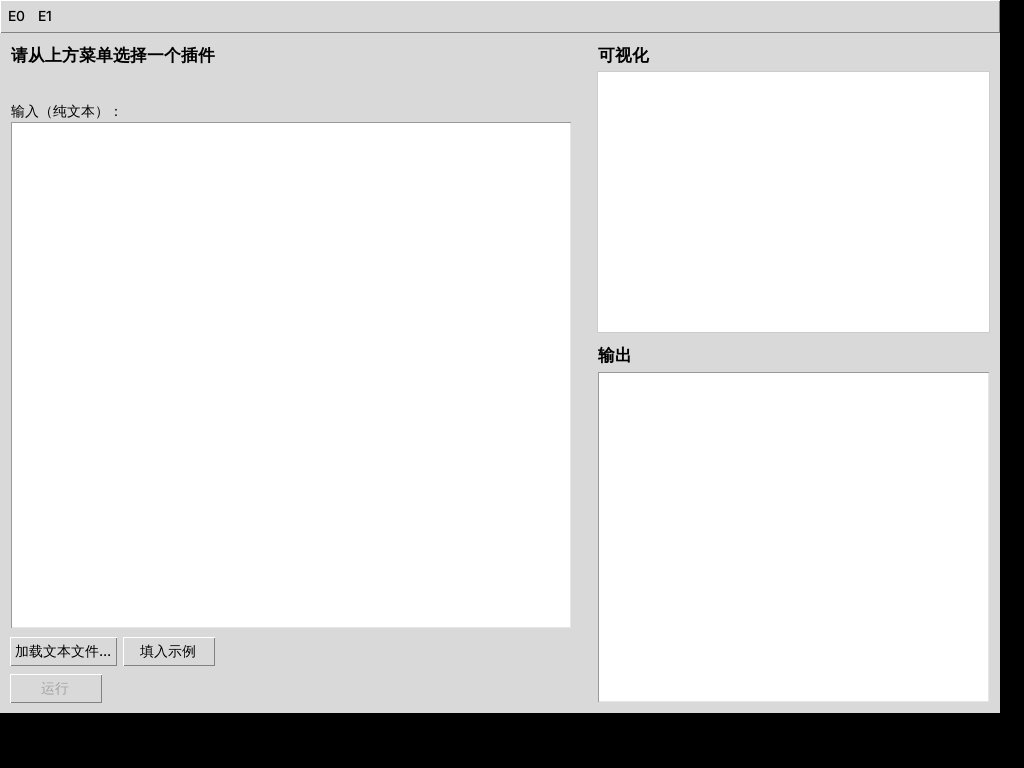
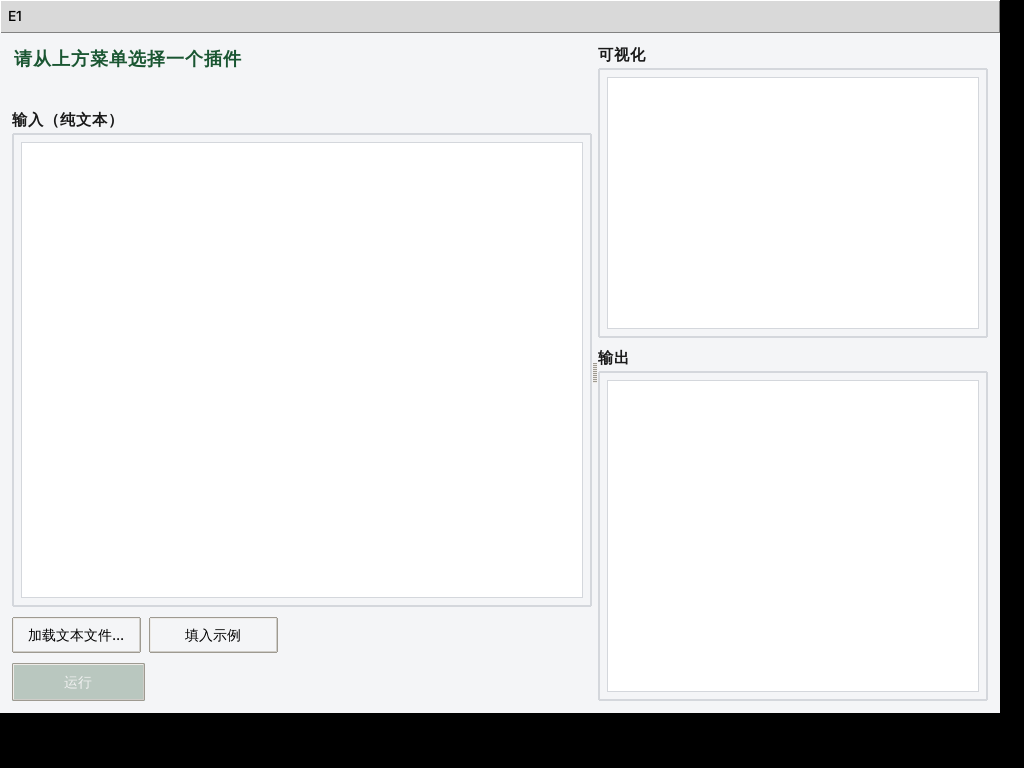
课程方案改为定题、一实验一插件；界面美化；去掉汉诺塔示例 (#5)
* 用空白模板 + 顺序表插入示例替换组件演示插件

拆分原来的 example_demo（一次性演示所有可视化组件）为两部分：
template/ 是不会被平台加载的空白骨架，供学生复制；
example_insert 是顺序表插入的完整实现，带可视化，供学生参考代码该怎么写。
同步更新三份 README、学生手册和图文讲解页，去掉过于"AI 风格"的装饰样式。

Claude-Session: https://claude.ai/code/session_01H1kom7vkjdaCTMFo3jyyjG

* 简化平台架构：C 版去掉 dlopen/.so，Python 版扁平化目录

C 版插件改为编译时静态注册（__attribute__((constructor))），和核心代码
一起编译成一个可执行文件，不再有 dlopen/dlsym/ABI 版本这些概念，Windows
装 MinGW-w64 即可编译运行，不再需要 WSL。Makefile 从"编译核心 + 逐个插件
编译成 .so"简化成一条 glob 所有源文件的编译命令。

Python 版去掉 core/、ui/ 子目录，loader.py/registry.py 的逻辑合并进
main.py，plugin_base.py/visual.py/app.py 直接放在平台根目录，减少学生
需要理解的目录层级。

同步更新两份 README、学生手册、VSCode 配置指南和图文讲解页。

Claude-Session: https://claude.ai/code/session_01H1kom7vkjdaCTMFo3jyyjG

* 重新设计五次课实验方案，改用更基础的算法主题

去掉原来 KMP+矩阵这次偏难、跟遥感场景强绑定的实验，换成更贴近数据结构
核心内容的五个主题：线性表、栈和队列、树、图、查找与排序，每次课后
任务按 2~3 小时设计，难度点分散成多个小任务（比如树那次拆成遍历和
BST 插入/查找两部分，BST 删除作为选做）。

示例插件的分类编号相应调整：汉诺塔示例作为不计入正式实验的入门演示
（E0），顺序表插入示例对应实验一（E1）。同步更新截图、两份 README、
VSCode 配置指南和图文讲解页里的实验安排表。

Claude-Session: https://claude.ai/code/session_01H1kom7vkjdaCTMFo3jyyjG

* 美化 Python 版界面：ttk 主题 + 分组边框，不再是原生灰色控件

用 ttk 的 clam 主题统一配色（墨绿色强调色，跟文档保持一致），输入/可视化/
输出三块都用 Labelframe 加边框分组，运行按钮用强调色突出主操作，整体
排版更规整。截图同步更新。

Claude-Session: https://claude.ai/code/session_01H1kom7vkjdaCTMFo3jyyjG

* 课程方案改为定题、一实验一插件；入门合并进实验一，去掉汉诺塔示例

去掉所有选做/二选一内容，每次实验的 2~3 个算法都固定下来，统一封装进
同一个插件（一个新菜单项），用输入第一行的算法名区分分支，约定写进
学生手册。环境搭建不再单独占一次课，并入实验一，课后任务就是照着
顺序表插入示例的结构再实现一遍插入和删除，降低第一堂课难度。

汉诺塔递归示例整个移除（Python/C 两版），平台现在只保留顺序表插入
[…]

Changed region(s): [[0.0, 0.0312, 1.0, 0.9375]]

diff --git a/docs/plugin_platform_guide.html b/docs/plugin_platform_guide.html
@@ -293,15 +293,15 @@ class BinarySearchPlugin(Plugin):
 <section id="timeline">
   <div class="wrap">
     <h2>五、五次实验的安排</h2>
-    <p>每次实验对应平台里的一个新分类，课后任务按 2~3 小时设计。正式实验前有一次不计入五次的环境搭建+入门课（分类 <code>E0</code>）。</p>
+    <p>每次实验对应平台里新增的一个插件、一个新菜单项，课后任务固定 2~3 个算法，都写进同一个插件里（输入第一行写算法名区分分支），不设选做。第一次课把环境搭建并入实验一，内容刻意放轻。</p>
 
     <table>
-      <tr><th>实验</th><th>课堂讲什么</th><th>课后集成到平台的插件</th></tr>
-      <tr><td>E1 线性表</td><td>顺序表/链表复杂度对比</td><td>顺序表增删查 + 单链表增删查反转</td></tr>
+      <tr><th>实验</th><th>课堂讲什么</th><th>课后要写的算法（固定，不选做）</th></tr>
+      <tr><td>E1 环境搭建 + 顺序表</td><td>插件接口讲解，对照示例逐行走读</td><td>顺序表插入 + 顺序表删除</td></tr>
       <tr><td>E2 栈和队列</td><td>典型应用场景、现场写括号匹配</td><td>栈（括号匹配）+ 循环队列</td></tr>
       <tr><td>E3 树</td><td>递归定义、三种遍历的写法规律</td><td>二叉树四种遍历 + 二叉查找树插入/查找</td></tr>
       <tr><td>E4 图</td><td>邻接矩阵 vs 邻接表、现场写 DFS</td><td>图的邻接表存储 + DFS/BFS</td></tr>
-      <tr><td>E5 查找与排序</td><td>查找/排序谱系，对比不同排序的比较次数</td><td>顺序/二分查找 + 简单排序 + 快排或归并</td></tr>
+      <tr><td>E5 查找与排序</td><td>查找/排序谱系，对比不同排序的比较次数</td><td>顺序/二分查找 + 选择排序 + 快速排序</td></tr>
     </table>
   </div>
 </section>

diff --git a/platform-python/app.py b/platform-python/app.py
@@ -12,17 +12,50 @@ from tkinter import ttk, filedialog, messagebox
 
 from visual import Visualizer
 
+# 统一配色，照搬课程文档用的墨绿色系，不需要改这几个值。
+BG = "#f4f5f7"
+ACCENT = "#1a5632"
+ACCENT_ACTIVE = "#154827"
+BORDER = "#d4d7dc"
+MUTED = "#5a6066"
+
 
 class PlatformApp(tk.Tk):
     def __init__(self, plugins):
         super().__init__()
         self.plugins = plugins
         self.title("数据结构实验插件平台（Python）")
-        self.geometry("980x680")
+        self.geometry("1020x700")
+        self.minsize(820, 560)
         self.current_plugin = None   # 当前选中的插件对象
 
+        self._setup_style()
         self._build_menu()
         self._build_layout()
+
+    def _setup_style(self):
+        self.configure(bg=BG)
+        style = ttk.Style(self)
+        # clam 主题支持自定义颜色，换个主题能让控件看起来不那么“原始系统风格”。
+        style.theme_use("clam")
+
+        style.configure(".", background=BG)
+        style.configure("TFrame", background=BG)
+        style.configure("TLabel", background=BG, foreground="#1a1a1a")
+        style.configure("Muted.TLabel", background=BG, foreground=MUTED)
+        style.configure("Header.TLabel", background=BG, foreground=ACCENT, font=("", 13, "bold"))
+        style.configure("Section.TLabel", background=BG, foreground="#1a1a1a", font=("", 11, "bold"))
+
+        style.configure("TLabelframe", background=BG, bordercolor=BORDER, relief="solid", borderwidth=1)
+        style.configure("TLabelframe.Label", background=BG, foreground="#1a1a1a", font=("", 11, "bold"))
+
+        style.configure("TButton", padding=(12, 6))
+        style.configure("Accent.TButton", padding=(14, 7), background=ACCENT, foreground="white")
+        style.map(
+            "Accent.TButton",
+            background=[("disabled", "#b9c7bf"), ("active", ACCENT_ACTIVE)],
+            foreground=[("disabled", "#f0f0f0")],
+        )
 
     def _build_menu(self):
         # 菜单栏：每个 category（比如 "E1"）是一个菜单，里面是这次课的所有插件
@@ -40,43 +73,57 @@ class PlatformApp(tk.Tk):
         self.config(menu=menubar)
 
     def _build_layout(self):
-        paned = ttk.PanedWindow(self, orient=tk.HORIZONTAL)
+        outer = ttk.Frame(self, padding=12)
+        outer.pack(fill=tk.BOTH, expand=True)
+
+        paned = ttk.PanedWindow(outer, orient=tk.HORIZONTAL)
         paned.pack(fill=tk.BOTH, expand=True)
 
         # ---------- 左侧：插件说明 + 输入框 ----------
-        left = ttk.Frame(paned, width=280)
+        left = ttk.Frame(paned, width=300)
         paned.add(left, weight=1)
 
-        self.title_label = ttk.Label(left, text="请从上方菜单选择一个插件", font=("", 12, "bold"), wraplength=260)
-        self.title_label.pack(anchor="w", padx=10, pady=(10, 4))
+        self.title_label = ttk.Label(left, text="请从上方菜单选择一个插件", style="Header.TLabel", wraplength=280)
+        self.title_label.pack(anchor="w", pady=(0, 4))
 
-        self.desc_label = ttk.Label(left, text="", foreground="#666", wraplength=260)
-        self.desc_label.pack(anchor="w", padx=10, pady=(0, 10))
+        self.desc_label = ttk.Label(left, text="", style="Muted.TLabel", wraplength=280, justify=tk.LEFT)
+        self.desc_label.pack(anchor="w", pady=(0, 12))
 
-        ttk.Label(left, text="输入（纯文本）：").pack(anchor="w", padx=10)
-        self.input_box = tk.Text(left, height=10)
-        self.input_box.pack(fill=tk.BOTH, expand=True, padx=10, pady=(0, 8))
+        input_frame = ttk.Labelframe(left, text="输入（纯文本）", padding=8)
+        input_frame.pack(fill=tk.BOTH, expand=True, pady=(0, 10))
+        self.input_box = tk.Text(
+            input_frame, height=10, wrap="word", relief="flat",
+            highlightthickness=1, highlightbackground=BORDER, highlightcolor=ACCENT,
+            padx=6, pady=6,
+        )
+        self.input_box.pack(fill=tk.BOTH, expand=True)
 
         btn_row = ttk.Frame(left)
-        btn_row.pack(fill=tk.X, padx=10, pady=(0, 8))
+        btn_row.pack(fill=tk.X, pady=(0, 10))
         ttk.Button(btn_row, text="加载文本文件...", command=self._on_load_file).pack(side=tk.LEFT)
-        ttk.Button(btn_row, text="填入示例", command=self._on_fill_example).pack(side=tk.LEFT, padx=6)
+        ttk.Button(btn_row, text="填入示例", command=self._on_fill_example).pack(side=tk.LEFT, padx=(8, 0))
 
-        self.run_btn = ttk.Button(left, text="运行", command=self._on_run, state=tk.DISABLED)
-        self.run_btn.pack(anchor="w", padx=10, pady=(0, 10))
+        self.run_btn = ttk.Button(left, text="运行", style="Accent.TButton", command=self._on_run, state=tk.DISABLED)
+        self.run_btn.pack(anchor="w")
 
-        # ---------- 中间：画布（上）+ 输出框（下） ----------
+        # ---------- 右侧：画布（上）+ 输出框（下） ----------
         right = ttk.Frame(paned)
         paned.add(right, weight=3)
 
-        ttk.Label(right, text="可视化", font=("", 12, "bold")).pack(anchor="w", padx=10, pady=(10, 4))
-        self.canvas = tk.Canvas(right, height=260, bg="white", highlightthickness=1, highlightbackground="#ccc")
-        self.canvas.pack(fill=tk.X, padx=10, pady=(0, 10))
+        vis_frame = ttk.Labelframe(right, text="可视化", padding=8)
+        vis_frame.pack(fill=tk.X, pady=(0, 10))
+        self.canvas = tk.Canvas(vis_frame, height=250, bg="white", highlightthickness=1, highlightbackground=BORDER)
+        self.canvas.pack(fill=tk.X)
         self.vis = Visualizer(self.canvas)
 
-        ttk.Label(right, text="输出", font=("", 12, "bold")).pack(anchor="w", padx=10, pady=(0, 4))
-        self.output = tk.Text(right, wrap="word")
-        self.output.pack(fill=tk.BOTH, expand=True, padx=10, pady=(0, 10))
+        output_frame = ttk.Labelframe(right, text="输出", padding=8)
+        output_frame.pack(fill=tk.BOTH, expand=True)
+        self.output = tk.Text(
+            output_frame, wrap="word", relief="flat",
+            highlightthickness=1, highlightbackground=BORDER, highlightcolor=ACCENT,
+            padx=6, pady=6,
+        )
+        self.output.pack(fill=tk.BOTH, expand=True)
 
     def _select_plugin(self, plugin):
         # 从菜单里点了某个插件之后，刷新左侧面板

diff --git a/platform-python/plugin_base.py b/platform-python/plugin_base.py
@@ -18,7 +18,7 @@ class Plugin:
     """所有插件的基类。写自己的插件时，继承它并重写 run() 即可。"""
 
     name = "未命名插件"     # 显示在菜单里的名字，同一平台内不要和别人重名
-    category = "E0"         # 实验编号，例如 "E1"、"E2"，用于放进同一个菜单栏
+    category = "E1"         # 实验编号，例如 "E1"、"E2"，用于放进同一个菜单栏
     description = ""        # 一句话说明输入格式，会显示在左侧面板里
 
     def example_input(self):

diff --git a/docs/course_design.md b/docs/course_design.md
@@ -2,40 +2,29 @@
 
 ## 设计思路
 
-1. 每次实验都产出一个插件，装进平台里。五次课上完，每个学生手上就有一套自己写的算法合集，可以直接打开平台跑给别人看。
-2. 课堂时间不用来讲语法，讲两件事：这个算法的关键点在哪、容易在哪里出错，以及怎么把算法包装成插件接口。具体写法学生自己看操作手册。
-3. 课后任务给 2~3 小时，覆盖的是教材标准算法加插件封装，不额外要求性能优化，不要求复杂的异常处理。每次任务里如果某一个算法单独做太简单（比如顺序查找），就配上另一个算法凑够工作量，而不是让一个任务本身变难。
+1. 每次实验对应平台里新增的一个插件、一个新的菜单项。五次课上完，每个学生手上就有五个插件装在同一个平台里，可以直接打开跑给别人看。
+2. 每次实验的算法内容是固定的，不设选做、不设二选一，所有人做同一套题，方便统一验收。
+3. 每次实验安排 2~3 个算法，都封装进同一个插件里，用输入内容的第一行指定要跑哪个算法（约定写法见下）。课后任务按 2~3 小时设计，不要求性能优化，不要求复杂的异常处理。
 4. 每次任务都给明确的验收标准和测试用例，不让学生自己猜"做到什么程度算完成"。
 
----
-
-## 实验零：环境搭建 + 插件入门（不计入五次实验，占用第一次课前半段）
-
-目的是让学生在正式进入算法之前，先把平台跑起来、看懂插件长什么样。
-
-**课堂内容**
-- 讲 `Plugin` 接口（Python）/ `PluginInfo` 结构体（C）的字段含义，对照平台自带的汉诺塔示例插件（分类 `E0`）逐行走读。
-- 现场演示新增一个插件目录、改几行代码、重新运行就能在菜单里看到。
-- 分发平台代码，学生当场跑通汉诺塔示例，确认编译/运行环境没问题。
-
-**课后**：不布置任务，只要求保证平台在自己机器上能跑起来。下次课直接进入实验一。
+**统一的插件输入约定**：一个插件内部有多个算法时，输入的第一行写算法名（英文，比如 `insert`），其余行是这个算法需要的数据。插件 `run()` 里先按第一行判断走哪个分支，再解析剩下的内容。平台自带的 `example_insert` 示例目前只有一个算法，没有体现这个约定，写实验任务时照这个约定扩展即可。
 
 ---
 
-## 实验一：线性表（分类 `E1`）
+## 实验一：环境搭建 + 顺序表（分类 `E1`）
 
-顺序表和链表是后面所有实验的地基，栈、队列都是在它们基础上包一层接口。
+第一次课把环境搭建和第一次练习合在一起，内容刻意放得比较轻——顺序表插入已经作为示例给出，课后任务是照着同样的结构再写一个，难度不高。
 
 **课堂 90 分钟要讲的**
-- 顺序表和链表在插入、删除、按下标访问上的复杂度差别，什么场景该用哪个。
-- 现场写一个顺序表的按值查找，带着学生过一遍插件怎么设计输入格式（比如一行逗号分隔的整数）。
+- 讲 `Plugin` 接口（Python）/ `PluginInfo` 结构体（C）的字段含义，对照平台自带的顺序表插入示例（`example_insert`）逐行走读。
+- 现场演示新增一个插件目录、改几行代码、重新运行就能在菜单里看到。
+- 分发平台代码，学生当场跑通示例插件，确认编译/运行环境没问题。
 
-**课后任务（2~3 小时）**
-- 顺序表：实现插入、删除、按值查找，参考平台自带的 `example_insert` 示例（已经演示了插入，删除和查找是新增部分）。
-- 单链表：实现插入、删除、按值查找、反转。反转单独拿出来是因为它是最常考的链表题之一。
-- 两个数据结构可以封装成一个插件（输入里指定操作类型），也可以拆成两个插件，自己决定。
+**课后任务（2~3 小时，固定内容，两个算法）**
+- 顺序表插入：照着 `example_insert` 的结构自己重新实现一遍（不是复制示例代码，自己写一遍加深理解）。
+- 顺序表删除：在同一个插件里新增这个分支，删除指定下标的元素。
 
-**验收标准**：给定插入/删除/查找/反转各一组测试用例（含空表、单元素这两种边界），结果和教材标准算法一致，不崩溃。
+**验收标准**：新建一个插件目录，菜单里出现一个新的分类 `E1`（和示例的 `E1` 用不同的插件名区分）；插入、删除各给一组测试用例（含空表、删除越界这两种边界），结果和预期一致，不崩溃。
 
 ---
 
@@ -45,12 +34,11 @@
 - 栈和队列各自最典型的应用场景举一个例子。
 - 现场写一个括号匹配校验（用栈），比课后任务简单。
 
-**课后任务（2~3 小时）**
+**课后任务（2~3 小时，固定内容，两个算法）**
 - 栈：实现入栈/出栈/取栈顶，配一个应用——括号匹配校验（输入一串括号，判断是否合法）。
-- 队列：实现循环队列的入队/出队，注意判断队空和队满这两个边界。
-- 进阶选做（不要求）：用两个栈实现一个队列。
+- 循环队列：实现入队/出队，正确处理队空和队满这两个边界。
 
-**验收标准**：括号匹配给出至少一组合法、一组不合法的测试用例，结果正确；循环队列连续入队到满、再出队到空，不出现数组越界或死循环。
+**验收标准**：括号匹配给出一组合法、一组不合法的测试用例，结果正确；循环队列连续入队到满、再出队到空，不出现数组越界或死循环。
 
 ---
 
@@ -60,9 +48,9 @@
 - 树的递归定义，前序/中序/后序遍历的递归写法只有遍历顺序不一样，强调这一点能帮学生少背公式。
 - 现场手画一棵小树，全班一起写出三种遍历序列，再讲层序遍历（用队列）。
 
-**课后任务（2~3 小时）**
-- 二叉树的构建（约定一种文本输入格式，比如带占位符的层序序列）+ 前序、中序、后序、层序四种遍历。
-- 二叉查找树（BST）：实现插入和查找。删除是选做加分项——二叉查找树删除要处理三种情况（叶子节点、只有一个子节点、有两个子节点），对入门来说稍微绕一点，想挑战的同学再做。
+**课后任务（2~3 小时，固定内容，两个算法）**
+- 二叉树的构建（约定一种文本输入格式，比如带占位符的层序序列）+ 前序、中序、后序、层序四种遍历（这四种算一个整体功能）。
+- 二叉查找树（BST）：插入和查找。
 
 **验收标准**：给定标准测试树（层序输入格式见操作手册附录），四种遍历序列都正确；BST 插入后再查找刚插入的值能找到，查找不存在的值能正确返回"没找到"。
 
@@ -74,7 +62,7 @@
 - 邻接矩阵和邻接表两种存储方式的取舍（稀疏图用邻接表更省空间）。
 - 现场画一个 6 节点小图，带着全班写一遍 DFS。
 
-**课后任务（2~3 小时）**
+**课后任务（2~3 小时，固定内容，两个算法）**
 - 图的邻接表存储 + DFS 遍历，输入为边列表（比如每行一条边 `A,B`）。
 - BFS 遍历，复用同一套存储结构。
 
@@ -84,16 +72,16 @@
 
 ## 实验五：查找与排序（分类 `E5`）
 
-这是最后一次课，也是信息量最大的一次，但每个算法单独看都不难，拆开看工作量是合理的。
+这是最后一次课，信息量最大，但拆开看每个算法都不难。
 
 **课堂 90 分钟要讲的**
 - 顺序查找和二分查找的对比（二分查找要求数组有序）。
-- 排序算法谱系：冒泡/插入/选择这类"简单排序"思路差不多，快速排序和归并排序是重点。现场用平台跑一遍同一组数据的不同排序，直观看比较次数的差别。
+- 排序算法谱系：简单排序和高效排序的思路差别。现场用平台跑一遍同一组数据的不同排序，直观看比较次数的差别。
 
-**课后任务（2~3 小时）**
-- 查找：顺序查找 + 二分查找，一个插件里都实现，输出两者各自的比较次数方便对比。
-- 简单排序：冒泡、插入、选择三选一实现一个。
-- 进阶排序：快速排序和归并排序二选一实现一个。
+**课后任务（2~3 小时，固定内容，三个算法）**
+- 查找：顺序查找 + 二分查找，输出两者各自的比较次数方便对比。
+- 选择排序（简单排序的代表）。
+- 快速排序（高效排序的代表）。
 
 **验收标准**：查找和排序都用随机数组测试，结果和 Python `sorted()`/C 标准库 `qsort` 的输出做比较，一致即通过。
 
@@ -109,9 +97,3 @@
 | 手册/注释可读性 | 15% | 助教能不能在 5 分钟内看懂并跑起来 |
 
 插件集成规范性单独占 20% 是故意的：插件化的意义就是统一接口，如果某个插件的异常能让整个平台崩溃，说明接口没封装好，这件事要在分数上体现出来。
-
----
-
-## 后续可选：综合项目
-
-五次实验结束后，如果课时还有富余，可以加一个开放性的综合项目作为选做/加分项——要求学生任选一个场景，复用至少两种前五次实验里实现过的数据结构（比如图 + BFS 做连通性分析，树 + 排序做某种统计）。这个不是必做实验，不设固定时长，按需安排。

diff --git a/platform-c/README.md b/platform-c/README.md
@@ -13,17 +13,16 @@ make run
 
 ## 操作步骤
 
-1. 运行后会看到一个文本菜单，插件按实验编号连续排列，分类显示在插件名后面的括号里，如 `(E1)`（`E0` 是入门演示，不算正式实验）。
+1. 运行后会看到一个文本菜单，插件按实验编号连续排列，分类显示在插件名后面的括号里，如 `(E1)`。
 2. 输入插件前面的编号并回车进入该插件。
 3. 按插件的提示输入一行文本，回车确认，可视化结果和文字结果都直接打印在终端里。
 4. 回到菜单后输入 `0` 退出。
 
 ```
 ============ 数据结构实验插件平台（C） ============
-  [1] 汉诺塔求解（示例） (E0)
-  [2] 顺序表插入（示例） (E1)
+  [1] 顺序表插入（示例） (E1)
   [0] 退出
-请输入编号: 2
+请输入编号: 1
 
 -- 顺序表插入（示例） --
 依次输入原数组、插入位置和插入值，演示顺序表插入操作。
@@ -42,4 +41,4 @@ make run
 插件接口规范、可视化工具用法、常见问题见 [`../docs/student_manual.md`](../docs/student_manual.md)。
 
 新插件从空白模板开始：[`template/plugin_template.c`](template/plugin_template.c)，复制到 `plugins/` 下改个名字即可。
-不知道代码该怎么写，先看完整示例：[`plugins/example_insert/insert_plugin.c`](plugins/example_insert/insert_plugin.c)（顺序表插入，含可视化）、[`plugins/example_recursion/recursion_plugin.c`](plugins/example_recursion/recursion_plugin.c)（汉诺塔，无需可视化）。
+不知道代码该怎么写，先看完整示例：[`plugins/example_insert/insert_plugin.c`](plugins/example_insert/insert_plugin.c)（顺序表插入，含可视化）。

diff --git a/docs/student_manual.md b/docs/student_manual.md
@@ -16,6 +16,8 @@
 
 不知道代码应该写成什么样子，可以先看 `plugins/example_insert/`，这是一个完整实现的例子（顺序表插入），照着这个结构写就行。
 
+每次实验的要求是固定的，不设选做题；每次实验对应一个新插件、菜单里的一个新按钮。如果一次实验要求实现 2~3 个算法，这几个算法都写进同一个插件里，用输入的第一行写算法名（比如 `insert`）来区分走哪个分支，具体要求见 `course_design.md`。
+
 ## 1. 目录结构
 
 ```
@@ -26,7 +28,6 @@ platform-python/
   visual.py                       可视化工具
   template/plugin.py              空白模板，复制它去 plugins/ 下新建自己的插件
   plugins/example_insert/plugin.py     完整示例：顺序表插入
-  plugins/example_recursion/plugin.py  完整示例：汉诺塔（递归）
   plugins/<你的插件目录>/plugin.py
 
 platform-c/
@@ -37,7 +38,6 @@ platform-c/
   visual.h                        可视化工具，直接 #include 使用
   template/plugin_template.c      空白模板，复制它去 plugins/ 下新建自己的插件
   plugins/example_insert/insert_plugin.c       完整示例：顺序表插入
-  plugins/example_recursion/recursion_plugin.c 完整示例：汉诺塔（递归）
   plugins/<你的插件目录>/xxx.c
   Makefile
 ```

diff --git a/platform-python/README.md b/platform-python/README.md
@@ -26,4 +26,4 @@ python3 main.py
 插件接口规范、可视化工具用法、常见问题见 [`../docs/student_manual.md`](../docs/student_manual.md)。
 
 新插件从空白模板开始：[`template/plugin.py`](template/plugin.py)，复制到 `plugins/` 下改个名字即可。
-不知道代码该怎么写，先看完整示例：[`plugins/example_insert/plugin.py`](plugins/example_insert/plugin.py)（顺序表插入，含可视化）、[`plugins/example_recursion/plugin.py`](plugins/example_recursion/plugin.py)（汉诺塔，无需可视化）。
+不知道代码该怎么写，先看完整示例：[`plugins/example_insert/plugin.py`](plugins/example_insert/plugin.py)（顺序表插入，含可视化）。

diff --git a/README.md b/README.md
@@ -7,7 +7,7 @@
 - Python 平台：[`platform-python/`](platform-python/)
 - C 平台：[`platform-c/`](platform-c/)
 
-两版平台都带一个空白模板（`template/`，复制去写自己的插件）和两个完整示例：`plugins/example_insert`（顺序表插入，含可视化）、`plugins/example_recursion`（汉诺塔，不需要可视化）。
+两版平台都带一个空白模板（`template/`，复制去写自己的插件）和一个完整示例：`plugins/example_insert`（顺序表插入，含可视化）。
 
 ## 界面预览（Python 版）
 

diff --git a/docs/vscode_setup.md b/docs/vscode_setup.md
@@ -67,11 +67,10 @@
 按 `F5` 后，下方"终端"面板会显示：
 
 ```
-[main] 已加载 2 个插件
+[main] 已加载 1 个插件
 
 ============ 数据结构实验插件平台（C） ============
-  [1] 汉诺塔求解（示例） (E0)
-  [2] 顺序表插入（示例） (E1)
+  [1] 顺序表插入（示例） (E1)
   [0] 退出
 请输入编号:
 ```
